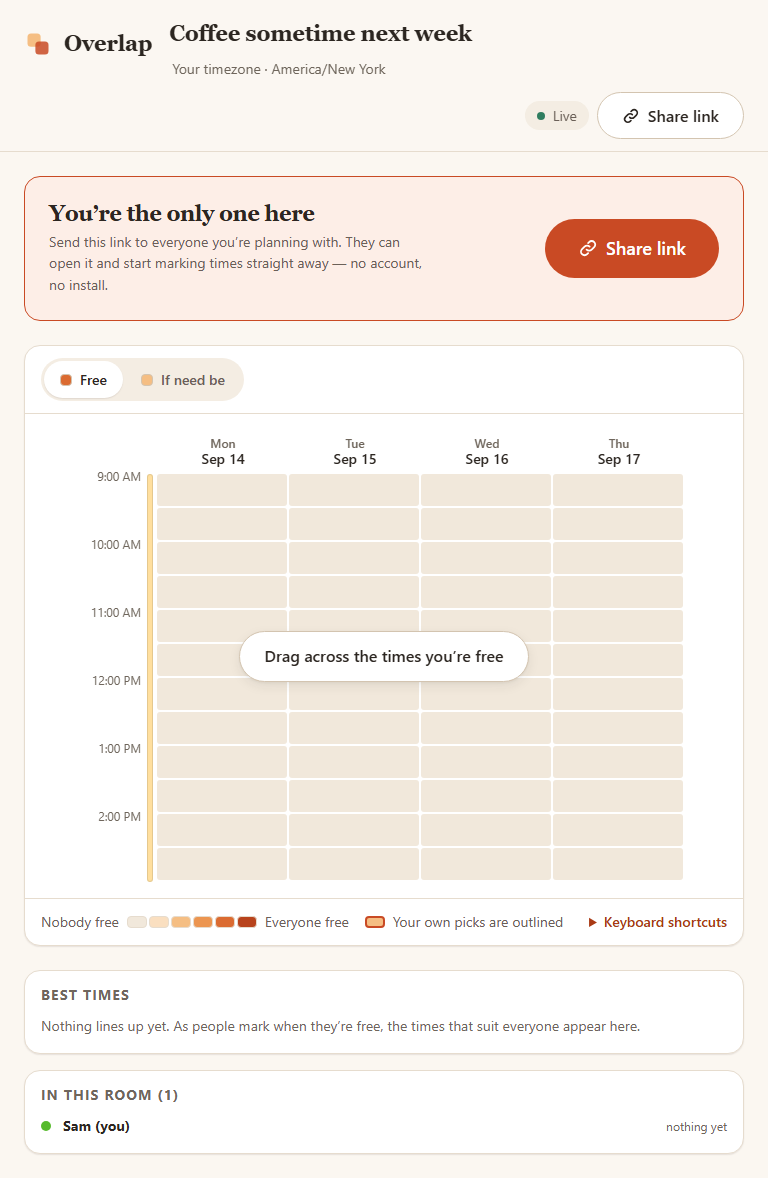
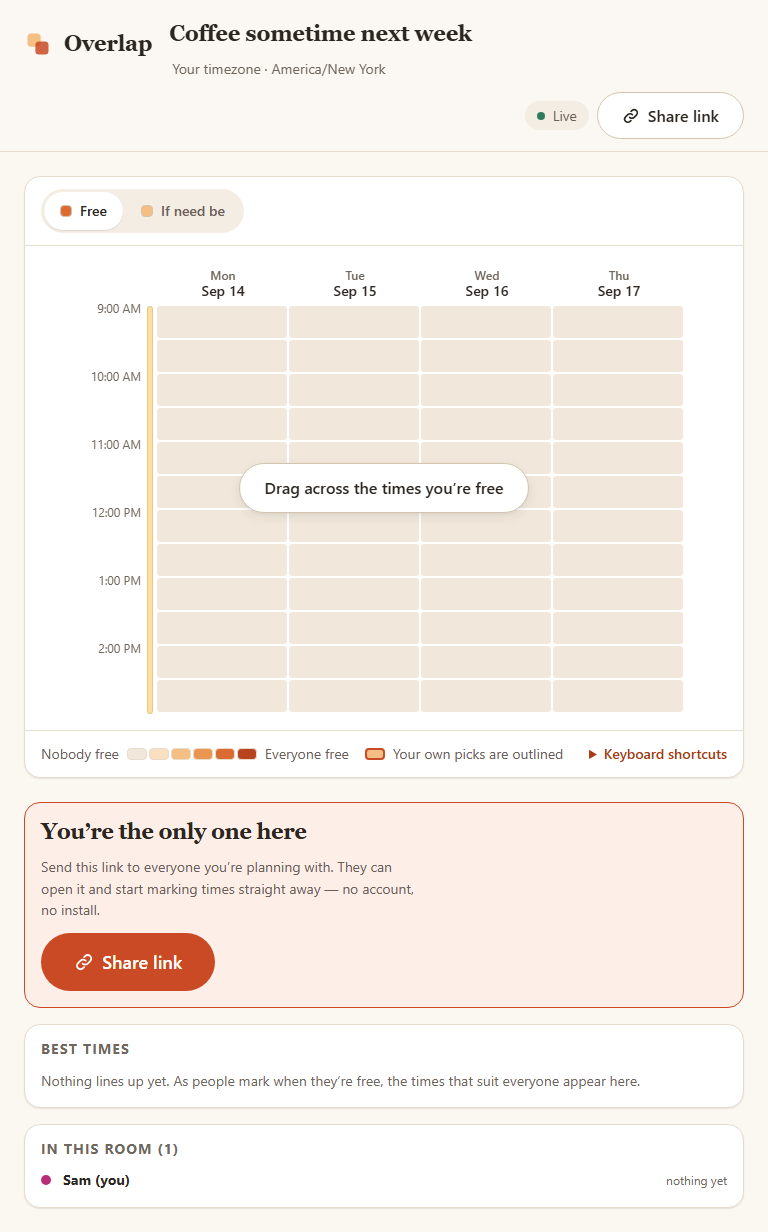
fix(web): stop the grid moving under an in-progress drag
Three E2E tests failed intermittently. All three had one cause, and it was a
real defect rather than test flakiness: blocks above the grid appeared and
disappeared on events the user had not caused, shifting the grid about two rows
while a drag was in flight, so the drag finished somewhere other than where it
started and painted the wrong cells.

The invitation panel vanished the moment a second person joined. It moves into
the side rail, where it keeps its emphasis and cannot move the grid on either
layout.

The offline banner keyed on status === 'offline'. Status starts at 'offline'
before the first connection, so it rendered on every room load and then removed
itself — a layout shift on load. A disconnected client also flips to
'connecting' on each retry, so it blinked out and back on every backoff tick.
Now gated on having actually been connected, and held through reconnection.

Presence labels now read names from the replicated map instead of the presence
packet. The server stamps a name when a participant's first cursor arrives, so
a cursor that beats its owner's name op leaves an unlabelled arrow, and a
rename never reaches anyone else's screen at all.

Attribution came from running the same spec against the pre-overhaul client,
which was 12/12 green. Guarded going forward by a smoke test that joins a
second person and asserts the grid's box has not moved.

diff --git a/apps/web/src/components/RoomView.tsx b/apps/web/src/components/RoomView.tsx
@@ -166,7 +166,11 @@ export function RoomView({ roomId }: { roomId: string }): React.JSX.Element {
       </header>
 
       <main className="room__body">
-        <OfflineNotice status={room.status} pendingCount={room.pendingCount} />
+        <OfflineNotice
+          status={room.status}
+          pendingCount={room.pendingCount}
+          everConnected={room.everConnected}
+        />
 
         {finalizedInstant !== null && (
           <div className="finalized">
@@ -193,21 +197,6 @@ export function RoomView({ roomId }: { roomId: string }): React.JSX.Element {
               </button>
             </div>
           </div>
-        )}
-
-        {alone && (
-          <section className="invite" aria-labelledby="invite-title">
-            <div className="invite__text">
-              <h2 className="invite__title" id="invite-title">
-                You&rsquo;re the only one here
-              </h2>
-              <p className="invite__body">
-                Send this link to everyone you&rsquo;re planning with. They can open it and start
-                marking times straight away — no account, no install.
-              </p>
-            </div>
-            <ShareButton url={shareUrl} variant="large" />
-          </section>
         )}
 
         <section className="grid-panel" id="availability-grid" aria-label="Your availability">
@@ -301,6 +290,27 @@ export function RoomView({ roomId }: { roomId: string }): React.JSX.Element {
         </section>
 
         <aside className="room__aside">
+          {/*
+            The invitation lives in the side rail, not above the grid.
+
+            Above the grid it disappeared the instant a second person joined — a remote event —
+            and took ~100px of page with it, so the grid jumped under the hand of anyone
+            mid-drag. A layout shift the user did not cause is a defect on its own; that it also
+            silently dropped painted cells is what made it obvious.
+          */}
+          {alone && (
+            <section className="invite" aria-labelledby="invite-title">
+              <h2 className="invite__title" id="invite-title">
+                You&rsquo;re the only one here
+              </h2>
+              <p className="invite__body">
+                Send this link to everyone you&rsquo;re planning with. They can open it and start
+                marking times straight away — no account, no install.
+              </p>
+              <ShareButton url={shareUrl} variant="large" />
+            </section>
+          )}
+
           <BestWindows
             state={room.state}
             slots={slots}

diff --git a/apps/web/src/components/PresenceLayer.tsx b/apps/web/src/components/PresenceLayer.tsx
@@ -1,9 +1,11 @@
-import { hueForParticipant, type Presence } from '@overlap/protocol';
+import { hueForParticipant, type Participant, type Presence } from '@overlap/protocol';
+import { useMemo } from 'react';
 import { participantColour } from '../lib/palette.js';
 import { usePrefersDark } from '../lib/usePrefersDark.js';
 
 export interface PresenceLayerProps {
   readonly peers: readonly Presence[];
+  readonly participants: readonly Participant[];
   readonly width: number;
   readonly height: number;
 }
@@ -19,14 +21,33 @@ export interface PresenceLayerProps {
  * never triggers layout. A short transition smooths the ~20 Hz update rate into something that
  * reads as a moving cursor instead of a blinking one.
  */
-export function PresenceLayer({ peers, width, height }: PresenceLayerProps): React.JSX.Element {
+export function PresenceLayer({
+  peers,
+  participants,
+  width,
+  height,
+}: PresenceLayerProps): React.JSX.Element {
   const dark = usePrefersDark();
+
+  /*
+   * Names come from the CRDT, not from the presence packet.
+   *
+   * The server stamps a name onto a presence record when that person's first cursor arrives, so
+   * a cursor that beats its own owner's name op leaves an unlabelled arrow until they happen to
+   * move again — and a rename never reaches anyone else's screen at all. The replicated map is
+   * the authority on who is called what; presence only ever knew where they were pointing.
+   */
+  const nameOf = useMemo(() => {
+    const lookup = new Map(participants.map((p) => [p.participantId, p.name]));
+    return (peer: Presence): string => lookup.get(peer.participantId) ?? peer.name;
+  }, [participants]);
 
   return (
     <div className="presence-layer" aria-hidden="true">
       {peers.map((peer) => {
         if (!peer.cursor) return null;
         const colour = participantColour(hueForParticipant(peer.participantId), dark);
+        const name = nameOf(peer);
         const x = peer.cursor.x * width;
         const y = peer.cursor.y * height;
 
@@ -51,9 +72,9 @@ export function PresenceLayer({ peers, width, height }: PresenceLayerProps): Rea
               contrast against — yellow at the same lightness as blue is four times brighter.
               Ringing it keeps the identity signal and puts the label on a known surface.
             */}
-            {peer.name.length > 0 && (
+            {name.length > 0 && (
               <span className="presence-cursor__name" style={{ borderColor: colour }}>
-                {peer.name}
+                {name}
               </span>
             )}
           </div>

diff --git a/apps/web/src/lib/useRoom.ts b/apps/web/src/lib/useRoom.ts
@@ -18,6 +18,13 @@ export interface RoomSession {
   readonly participantId: string;
   readonly myName: string;
   readonly pendingCount: number;
+  /**
+   * Whether this session has ever had a live socket.
+   *
+   * Status starts at `offline` because that is literally true before the first connection, but
+   * "offline" is the wrong thing to *tell* someone who has simply not connected yet.
+   */
+  readonly everConnected: boolean;
   readonly notice: string | null;
   readonly loading: boolean;
   /** The API answered 404. The room is definitely not there. */
@@ -61,6 +68,7 @@ export function useRoom(roomId: string): RoomSession {
   const [peers, setPeers] = useState<readonly Presence[]>([]);
   const [commitVersion, setCommitVersion] = useState(0);
   const [pendingCount, setPendingCount] = useState(0);
+  const [everConnected, setEverConnected] = useState(false);
   const [notice, setNotice] = useState<string | null>(null);
   const [loading, setLoading] = useState(true);
   const [missing, setMissing] = useState(false);
@@ -143,6 +151,7 @@ export function useRoom(roomId: string): RoomSession {
           return;
         }
       }
+      if (isDisposed()) return;
 
       const roomClient = new RoomClient({
         participantId: identity.participantId,
@@ -174,7 +183,10 @@ export function useRoom(roomId: string): RoomSession {
         },
         onStatusChange: (next) => {
           setStatus(next);
-          if (next === 'live') setMissing(false);
+          if (next === 'live') {
+            setMissing(false);
+            setEverConnected(true);
+          }
         },
         onPresenceChange: (next) => {
           setPeers(next);
@@ -357,6 +369,7 @@ export function useRoom(roomId: string): RoomSession {
     participantId: identity.participantId,
     myName: myName === '' ? identity.name : myName,
     pendingCount,
+    everConnected,
     notice,
     loading,
     missing,

diff --git a/e2e/smoke.spec.ts b/e2e/smoke.spec.ts
@@ -106,6 +106,38 @@ test.describe('every route loads clean', () => {
     expect(noise, 'console output in a room').toEqual([]);
   });
 
+  /*
+   * The grid must not move once it is on screen.
+   *
+   * This is a regression guard with a story: an offline banner and an invitation panel both sat
+   * above the grid and both appeared or vanished on events the user had not caused — the socket
+   * coming up, a second person joining. Each shifted the grid by roughly two rows, so a drag in
+   * progress finished somewhere other than where it started and silently painted the wrong
+   * cells. It reads as flakiness; it is a real defect with a real victim.
+   */
+  test('the grid does not move under the user', async ({ page, request, browser }) => {
+    const roomId = await createRoomViaApi(request, ordinaryRoom());
+    await joinRoom(page, roomId, 'Priya');
+
+    const grid = page.locator('.grid-stage');
+    const before = await grid.boundingBox();
+    expect(before).not.toBeNull();
+
+    // Someone else arrives and marks availability — the exact remote event that used to remove
+    // the invitation panel and drag the grid up with it.
+    const context = await browser.newContext();
+    const other = await context.newPage();
+    await joinRoom(other, roomId, 'Marcus');
+    await expect(page.locator('#participants-title')).toContainText('In this room (2)');
+    await page.waitForTimeout(500);
+
+    const after = await grid.boundingBox();
+    expect(after?.y, 'the grid moved vertically after a remote join').toBe(before?.y);
+    expect(after?.x, 'the grid moved horizontally after a remote join').toBe(before?.x);
+
+    await context.close();
+  });
+
   test('a room that is gone', async ({ page }) => {
     const { noise, probes } = watch(page);
 

diff --git a/apps/web/src/components/Chrome.tsx b/apps/web/src/components/Chrome.tsx
@@ -138,11 +138,25 @@ export function ConnectionBadge({
 export function OfflineNotice({
   status,
   pendingCount,
+  everConnected,
 }: {
   status: ConnectionStatus;
   pendingCount: number;
+  everConnected: boolean;
 }): React.JSX.Element | null {
-  if (status !== 'offline') return null;
+  /*
+   * Two conditions, and both exist to stop this block moving the grid underneath a drag.
+   *
+   * `everConnected` because status starts at `offline` — true, but not yet worth saying — so
+   * without it every room load rendered this banner and then removed it a few hundred
+   * milliseconds later, shifting the whole page on load.
+   *
+   * `!== 'live'` rather than `=== 'offline'` because a disconnected client flips to
+   * `connecting` on each retry. Keyed on `offline` alone the banner blinked out and back on
+   * every backoff tick, and a drag in progress landed on rows two positions from where it
+   * started.
+   */
+  if (!everConnected || status === 'live') return null;
 
   return (
     <div className="offline-notice" role="status">

diff --git a/apps/web/src/styles/global.css b/apps/web/src/styles/global.css
@@ -918,8 +918,7 @@ a.button:hover {
 
   /* Full-width rows inside the two-column body. */
   .offline-notice,
-  .finalized,
-  .invite {
+  .finalized {
     grid-column: 1 / -1;
   }
 }
@@ -937,20 +936,13 @@ a.button:hover {
  * person here, sharing the link is the primary action and the grid is not.
  */
 .invite {
-  display: flex;
-  flex-wrap: wrap;
-  align-items: center;
-  gap: var(--space-4);
-  padding: var(--space-5);
+  display: grid;
+  gap: var(--space-3);
+  justify-items: start;
+  padding: var(--space-4);
   border-radius: var(--radius-lg);
   background: var(--accent-soft);
   border: 1px solid var(--accent);
-}
-
-.invite__text {
-  flex: 1 1 20rem;
-  display: grid;
-  gap: var(--space-1);
 }
 
 .invite__title {

diff --git a/apps/web/src/components/AvailabilityGrid.tsx b/apps/web/src/components/AvailabilityGrid.tsx
@@ -587,7 +587,12 @@ export function AvailabilityGrid(props: AvailabilityGridProps): React.JSX.Elemen
           ))}
         </div>
 
-        <PresenceLayer peers={props.peers} width={metrics.width} height={metrics.height} />
+        <PresenceLayer
+          peers={props.peers}
+          participants={participants}
+          width={metrics.width}
+          height={metrics.height}
+        />
       </div>
     </div>
   );

diff --git a/design/NOTES.md b/design/NOTES.md
@@ -68,3 +68,44 @@ explicitly rather than leaving it looking forgotten.
 
 **Boldness budget spent in one place: the daylight rail.** Everything else is deliberately
 disciplined so it can be the thing people remember.
+
+---
+
+## P5 — QA
+
+**The flaky tests were not flaky.** Three E2E failures that came and went across runs all had
+one cause: blocks above the grid appearing or disappearing on events the *user had not caused*,
+shifting the grid by roughly two rows mid-drag. A drag then finished somewhere other than where
+it started, so the wrong cells were painted — which surfaced as "expected 4, received 6" and as
+a convergence test that never converged.
+
+Two offenders, both introduced by this pass:
+
+- The invitation panel sat above the grid and vanished the moment a second person joined.
+  Moved into the side rail, where it keeps its emphasis and cannot move the grid on either
+  layout.
+- The offline banner keyed on `status === 'offline'`. Status starts at `offline` before the
+  first connection, so it rendered on *every* room load and then removed itself — a layout shift
+  on load, in a goal whose rules forbid exactly that. Worse, a disconnected client flips to
+  `connecting` on each retry, so the banner blinked out and back on every backoff tick. Now
+  gated on `everConnected && status !== 'live'`.
+
+Guarded by `e2e/smoke.spec.ts` → "the grid does not move under the user", which joins a second
+person and asserts the grid's box is unchanged.
+
+**Presence names now come from the CRDT.** The server stamps a name onto a presence record when
+that person's first cursor arrives, so a cursor that beats its own owner's name op leaves an
+unlabelled arrow — and a rename never reaches anyone else at all. The replicated map is the
+authority on who is called what; presence only ever knew where they were pointing. Fixed in the
+client rather than the hub, which keeps the change inside the presentation layer.
+
+**Dead end: chasing this as a test-timing problem.** The first instinct was to raise timeouts.
+Attribution came from running the same spec against the pre-overhaul `apps/web` (`git checkout
+<base> -- apps/web`), which was 12/12 green — proving the regression was mine and not a
+pre-existing race. Worth repeating whenever "the tests are flaky" is the first theory.
+
+**One console entry survives, deliberately.** The not-found screen probes `GET /api/rooms/:id`
+and Chrome logs a resource-level error for the 404, which is the correct API answer to a room
+that is genuinely gone. The smoke spec classifies it separately and asserts *exactly one* — more
+would mean the client is retrying something it already has an answer about — rather than
+filtering it out silently.
